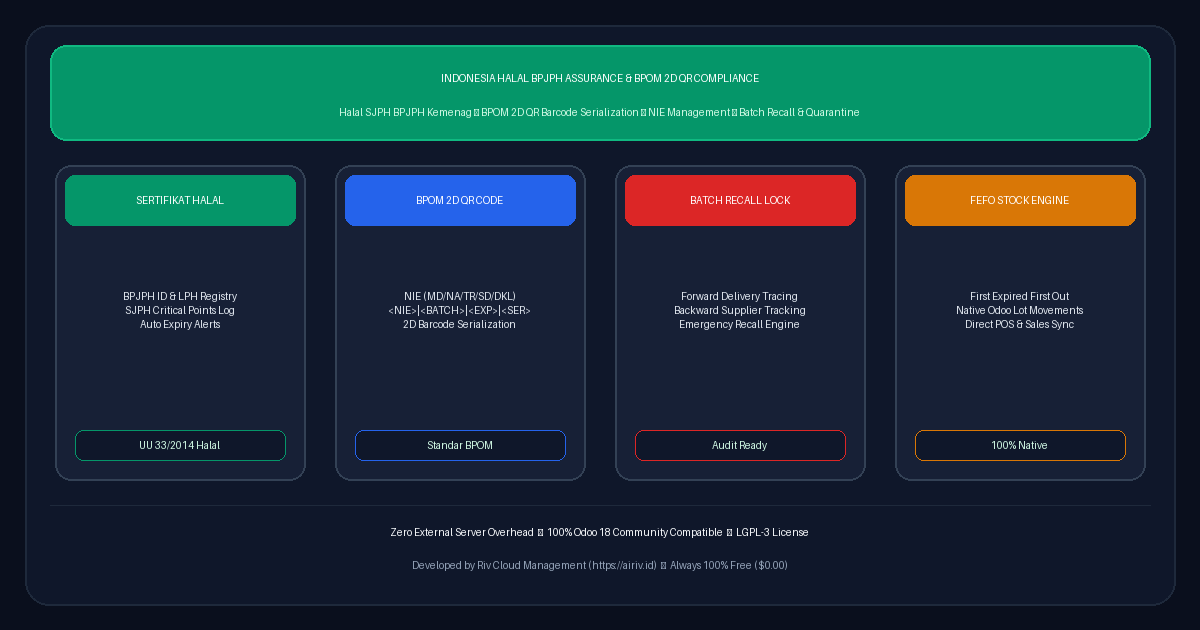
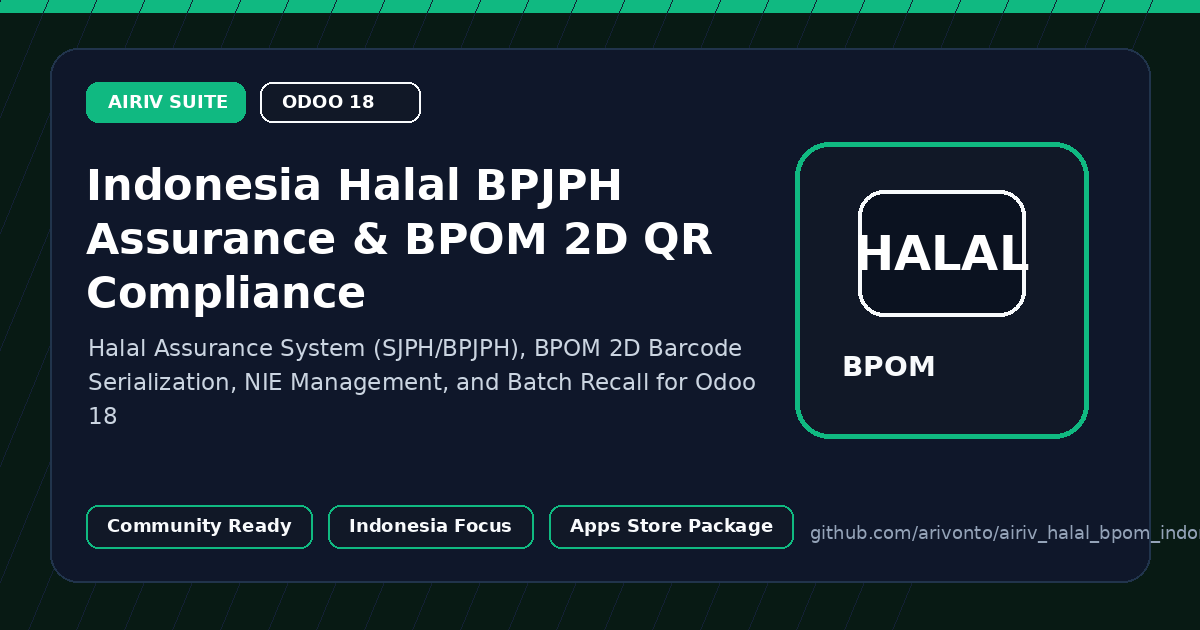
Refresh Odoo Apps Store assets and metadata

diff --git a/airiv_halal_bpom_indonesia/static/description/index.html b/airiv_halal_bpom_indonesia/static/description/index.html
@@ -1,172 +1,38 @@
 <!DOCTYPE html>
-<html lang="id">
+<html lang="en">
 <head>
-    <meta charset="utf-8"/>
-    <meta name="viewport" content="width=device-width, initial-scale=1.0"/>
-    <title>Indonesia Halal BPJPH (SJPH) & BPOM 2D QR Barcode Serialization</title>
+  <meta charset="utf-8">
+  <meta name="viewport" content="width=device-width, initial-scale=1">
+  <title>Indonesia Halal BPJPH Assurance & BPOM 2D QR Compliance</title>
+  <style>
+    body { margin:0; font-family: Arial, sans-serif; color:#14212f; background:#fff; }
+    .hero { padding:44px; border-radius:18px; background:#08111f; color:#fff; }
+    .badge { display:inline-block; padding:8px 12px; border-radius:999px; background:#0f766e; font-weight:700; font-size:13px; }
+    h1 { font-size:38px; line-height:1.15; margin:20px 0 12px; }
+    .lead { font-size:18px; color:#cbd5e1; max-width:900px; }
+    .grid { display:grid; grid-template-columns:repeat(3,1fr); gap:18px; margin:24px 0; }
+    .card { border:1px solid #e5e7eb; border-radius:14px; padding:22px; background:#fff; }
+    .card h3 { margin-top:0; color:#0f766e; }
+    .section { padding:28px 0; }
+    @media (max-width: 800px) { .grid { grid-template-columns:1fr; } h1 { font-size:30px; } .hero { padding:28px; } }
+  </style>
 </head>
-<body style="font-family: -apple-system, BlinkMacSystemFont, 'Segoe UI', Roboto, Helvetica, Arial, sans-serif; color: #0f172a; background-color: #ffffff; margin: 0; padding: 16px; box-sizing: border-box;">
-
-<!-- 1. Hero Card (Clean High-Contrast Light Theme) -->
-<div style="background-color: #f8fafc; border: 1px solid #cbd5e1; border-top: 6px solid #059669; border-radius: 12px; padding: 32px 24px; margin-bottom: 32px; text-align: center; box-shadow: 0 4px 6px -1px rgba(0,0,0,0.05);">
-    <div style="display: inline-block; background-color: #059669; color: #ffffff; font-size: 12px; font-weight: 800; padding: 6px 14px; border-radius: 20px; margin-bottom: 14px; text-transform: uppercase; letter-spacing: 0.5px;">
-        🇮🇩 BPJPH HALAL & BPOM RI COMPLIANT
+<body>
+  <div class="hero">
+    <span class="badge">AIRIV Suite for Odoo 18</span>
+    <h1>Indonesia Halal BPJPH Assurance & BPOM 2D QR Compliance</h1>
+    <p class="lead">Halal Assurance System (SJPH/BPJPH), BPOM 2D Barcode Serialization, NIE Management, and Batch Recall for Odoo 18</p>
+  </div>
+  <div class="section">
+    <div class="grid">
+      <div class="card"><h3>Business Ready</h3><p>Packaged as a focused Odoo application for Indonesian operating workflows.</p></div>
+      <div class="card"><h3>Community First</h3><p>Designed for Odoo 18 with clear dependencies, clean manifest metadata, and Apps Store assets.</p></div>
+      <div class="card"><h3>AIRIV UX</h3><p>Part of the AIRIV vertical ERP suite with consistent identity, iconography, and product positioning.</p></div>
     </div>
-    <h1 style="font-weight: 800; font-size: 28px; color: #0f172a; margin-top: 0; margin-bottom: 12px; line-height: 1.3;">
-        Indonesia Halal BPJPH (SJPH) & BPOM 2D QR Barcode Serialization
-    </h1>
-    <p style="font-size: 15.5px; color: #334155; max-width: 850px; margin: 0 auto 20px auto; line-height: 1.65;">
-        Regulatory Traceability Suite for Indonesian F&B, Cosmetics, and Pharma. Enforces BPJPH Halal Assurance Systems (SJPH), critical ingredient segregation, BPOM 2D Barcode Serialization, and FEFO lot expiry tracking.
-    </p>
-    <div style="display: flex; justify-content: center; gap: 8px; flex-wrap: wrap;">
-        <span style="display: inline-block; background-color: #e2e8f0; color: #0f172a; border: 1px solid #cbd5e1; font-size: 12px; font-weight: 600; padding: 5px 12px; border-radius: 6px;">Odoo 18.0 Community</span>
-        <span style="display: inline-block; background-color: #e2e8f0; color: #0f172a; border: 1px solid #cbd5e1; font-size: 12px; font-weight: 600; padding: 5px 12px; border-radius: 6px;">LGPL-3 License</span>
-        <span style="display: inline-block; background-color: #059669; color: #ffffff; font-size: 12px; font-weight: 700; padding: 5px 12px; border-radius: 6px;">100% Free ($0.00)</span>
-        <span style="display: inline-block; background-color: #e2e8f0; color: #0f172a; border: 1px solid #cbd5e1; font-size: 12px; font-weight: 600; padding: 5px 12px; border-radius: 6px;">Zero External Overhead</span>
-    </div>
-</div>
-
-<!-- 2. Showcase Banner Image -->
-<div style="text-align: center; margin-bottom: 36px;">
-    <img src="banner.png" alt="Indonesia Halal BPJPH (SJPH) & BPOM 2D QR Barcode Serialization" style="border-radius: 12px; border: 1px solid #cbd5e1; max-width: 100%; height: auto; box-shadow: 0 4px 6px -1px rgba(0,0,0,0.08);"/>
-</div>
-
-<!-- 3. Core Pillars -->
-<div style="margin-bottom: 36px;">
-    <div style="text-align: center; margin-bottom: 24px;">
-        <h2 style="font-weight: 800; color: #0f172a; font-size: 22px; margin-top: 0; margin-bottom: 6px;">
-            Core Capabilities & Architecture
-        </h2>
-        <p style="color: #475569; font-size: 14.5px; margin: 0;">
-            Engineered specifically for Indonesian statutory compliance and operational efficiency
-        </p>
-    </div>
-
-    <div style="display: flex; flex-wrap: wrap; gap: 16px;">
-        
-        <div style="flex: 1 1 calc(25% - 16px); min-width: 240px; box-sizing: border-box; margin-bottom: 16px;">
-            <div style="background-color: #ffffff; border: 1px solid #cbd5e1; border-top: 5px solid #059669; border-radius: 10px; padding: 20px; height: 100%; box-shadow: 0 2px 4px rgba(0,0,0,0.04); box-sizing: border-box;">
-                <h4 style="font-weight: 800; color: #0f172a; margin-top: 0; margin-bottom: 10px; font-size: 16px;">BPJPH Halal SJPH</h4>
-                <p style="font-size: 13.5px; color: #334155; line-height: 1.6; margin-bottom: 14px;">Tracks Halal certificate numbers (ID...), audit dates, and critical raw material matrices.</p>
-                <div style="display: inline-block; background-color: #059669; color: #ffffff; font-size: 11px; font-weight: 700; padding: 4px 10px; border-radius: 6px; text-transform: uppercase; letter-spacing: 0.5px;">
-                    Sertifikasi Halal
-                </div>
-            </div>
-        </div>
-        
-        <div style="flex: 1 1 calc(25% - 16px); min-width: 240px; box-sizing: border-box; margin-bottom: 16px;">
-            <div style="background-color: #ffffff; border: 1px solid #cbd5e1; border-top: 5px solid #0284c7; border-radius: 10px; padding: 20px; height: 100%; box-shadow: 0 2px 4px rgba(0,0,0,0.04); box-sizing: border-box;">
-                <h4 style="font-weight: 800; color: #0f172a; margin-top: 0; margin-bottom: 10px; font-size: 16px;">BPOM 2D QR Serialization</h4>
-                <p style="font-size: 13.5px; color: #334155; line-height: 1.6; margin-bottom: 14px;">Generates compliant 2D Datamatrix and GS1 QR barcodes for NIE registration tracking.</p>
-                <div style="display: inline-block; background-color: #0284c7; color: #ffffff; font-size: 11px; font-weight: 700; padding: 4px 10px; border-radius: 6px; text-transform: uppercase; letter-spacing: 0.5px;">
-                    BPOM Barcode
-                </div>
-            </div>
-        </div>
-        
-        <div style="flex: 1 1 calc(25% - 16px); min-width: 240px; box-sizing: border-box; margin-bottom: 16px;">
-            <div style="background-color: #ffffff; border: 1px solid #cbd5e1; border-top: 5px solid #7c3aed; border-radius: 10px; padding: 20px; height: 100%; box-shadow: 0 2px 4px rgba(0,0,0,0.04); box-sizing: border-box;">
-                <h4 style="font-weight: 800; color: #0f172a; margin-top: 0; margin-bottom: 10px; font-size: 16px;">Strict Halal Segregation</h4>
-                <p style="font-size: 13.5px; color: #334155; line-height: 1.6; margin-bottom: 14px;">Prevents contamination by locking non-halal raw materials from certified production lines.</p>
-                <div style="display: inline-block; background-color: #7c3aed; color: #ffffff; font-size: 11px; font-weight: 700; padding: 4px 10px; border-radius: 6px; text-transform: uppercase; letter-spacing: 0.5px;">
-                    Isolasi Bahan
-                </div>
-            </div>
-        </div>
-        
-        <div style="flex: 1 1 calc(25% - 16px); min-width: 240px; box-sizing: border-box; margin-bottom: 16px;">
-            <div style="background-color: #ffffff; border: 1px solid #cbd5e1; border-top: 5px solid #d97706; border-radius: 10px; padding: 20px; height: 100%; box-shadow: 0 2px 4px rgba(0,0,0,0.04); box-sizing: border-box;">
-                <h4 style="font-weight: 800; color: #0f172a; margin-top: 0; margin-bottom: 10px; font-size: 16px;">FEFO Expiry Management</h4>
-                <p style="font-size: 13.5px; color: #334155; line-height: 1.6; margin-bottom: 14px;">First-Expired, First-Out picking strategy with automated 30/60/90 day expiry alarms.</p>
-                <div style="display: inline-block; background-color: #d97706; color: #ffffff; font-size: 11px; font-weight: 700; padding: 4px 10px; border-radius: 6px; text-transform: uppercase; letter-spacing: 0.5px;">
-                    FEFO Lot Expiry
-                </div>
-            </div>
-        </div>
-        
-    </div>
-</div>
-
-<!-- 4. Key Enterprise Features -->
-<div style="background-color: #f8fafc; border: 1px solid #cbd5e1; border-radius: 12px; padding: 28px 20px; margin-bottom: 36px;">
-    <h3 style="font-weight: 800; color: #0f172a; font-size: 18px; margin-top: 0; margin-bottom: 18px; border-bottom: 2px solid #e2e8f0; padding-bottom: 10px;">
-        Key Enterprise Features & Workflow Automation
-    </h3>
-    <div style="display: flex; flex-wrap: wrap; gap: 16px;">
-        
-        <div style="flex: 1 1 calc(50% - 16px); min-width: 280px; box-sizing: border-box; margin-bottom: 16px;">
-            <div style="background-color: #ffffff; border: 1px solid #e2e8f0; border-left: 4px solid #059669; border-radius: 8px; padding: 16px; height: 100%; box-sizing: border-box;">
-                <h5 style="font-weight: 700; color: #0f172a; margin-top: 0; margin-bottom: 8px; font-size: 15px;">1. UU JPH No. 33/2014 Compliance</h5>
-                <p style="color: #334155; font-size: 13.5px; line-height: 1.6; margin: 0;">Supports mandatory Halal certification criteria for Indonesian manufacturers and distributors.</p>
-            </div>
-        </div>
-        
-        <div style="flex: 1 1 calc(50% - 16px); min-width: 280px; box-sizing: border-box; margin-bottom: 16px;">
-            <div style="background-color: #ffffff; border: 1px solid #e2e8f0; border-left: 4px solid #059669; border-radius: 8px; padding: 16px; height: 100%; box-sizing: border-box;">
-                <h5 style="font-weight: 700; color: #0f172a; margin-top: 0; margin-bottom: 8px; font-size: 15px;">2. BPOM 2D Barcode Generator</h5>
-                <p style="color: #334155; font-size: 13.5px; line-height: 1.6; margin: 0;">Renders official 2D verification barcodes containing NIE, Batch Number, and Expiration Dates.</p>
-            </div>
-        </div>
-        
-        <div style="flex: 1 1 calc(50% - 16px); min-width: 280px; box-sizing: border-box; margin-bottom: 16px;">
-            <div style="background-color: #ffffff; border: 1px solid #e2e8f0; border-left: 4px solid #059669; border-radius: 8px; padding: 16px; height: 100%; box-sizing: border-box;">
-                <h5 style="font-weight: 700; color: #0f172a; margin-top: 0; margin-bottom: 8px; font-size: 15px;">3. Halal Critical Material Audit</h5>
-                <p style="color: #334155; font-size: 13.5px; line-height: 1.6; margin: 0;">Generates ready-to-submit SJPH audit matrices for LPPOM MUI / BPJPH inspectors.</p>
-            </div>
-        </div>
-        
-        <div style="flex: 1 1 calc(50% - 16px); min-width: 280px; box-sizing: border-box; margin-bottom: 16px;">
-            <div style="background-color: #ffffff; border: 1px solid #e2e8f0; border-left: 4px solid #059669; border-radius: 8px; padding: 16px; height: 100%; box-sizing: border-box;">
-                <h5 style="font-weight: 700; color: #0f172a; margin-top: 0; margin-bottom: 8px; font-size: 15px;">4. Quarantine & Lot Recall</h5>
-                <p style="color: #334155; font-size: 13.5px; line-height: 1.6; margin: 0;">1-click trace and quarantine for affected manufacturing batches across all warehouses.</p>
-            </div>
-        </div>
-        
-    </div>
-</div>
-
-<!-- 5. Technical Specifications Table -->
-<div style="margin-bottom: 36px;">
-    <h3 style="font-weight: 800; color: #0f172a; font-size: 18px; margin-top: 0; margin-bottom: 14px;">
-        Module Technical Specifications
-    </h3>
-    <div style="overflow-x: auto;">
-        <table style="width: 100%; border-collapse: collapse; font-size: 13.5px; border: 1px solid #cbd5e1; background-color: #ffffff;">
-            <tbody>
-                <tr style="border-bottom: 1px solid #cbd5e1;">
-                    <td style="font-weight: 700; width: 30%; background-color: #f1f5f9; color: #0f172a; padding: 12px 16px; border-right: 1px solid #cbd5e1;">Framework Compatibility</td>
-                    <td style="color: #0f172a; padding: 12px 16px;">Odoo 18.0 Community Edition (OWL 2.0 & App Drawer Native)</td>
-                </tr>
-                <tr style="border-bottom: 1px solid #cbd5e1;">
-                    <td style="font-weight: 700; background-color: #f1f5f9; color: #0f172a; padding: 12px 16px; border-right: 1px solid #cbd5e1;">License & Price</td>
-                    <td style="color: #0f172a; padding: 12px 16px;">GNU LGPL-3 &bull; <strong style="color: #059669;">Free ($0.00)</strong></td>
-                </tr>
-                <tr style="border-bottom: 1px solid #cbd5e1;">
-                    <td style="font-weight: 700; background-color: #f1f5f9; color: #0f172a; padding: 12px 16px; border-right: 1px solid #cbd5e1;">Dependencies</td>
-                    <td style="color: #0f172a; padding: 12px 16px;"><code style="background-color: #f1f5f9; color: #0f172a; padding: 2px 6px; border-radius: 4px; font-weight: 600;">base, stock, product</code></td>
-                </tr>
-                <tr style="border-bottom: 1px solid #cbd5e1;">
-                    <td style="font-weight: 700; background-color: #f1f5f9; color: #0f172a; padding: 12px 16px; border-right: 1px solid #cbd5e1;">Regulatory Standards</td>
-                    <td style="color: #0f172a; padding: 12px 16px;">UU No. 33/2014 (Jaminan Produk Halal), BPJPH HAS 23000, Peraturan BPOM No. 22/2022</td>
-                </tr>
-                <tr>
-                    <td style="font-weight: 700; background-color: #f1f5f9; color: #0f172a; padding: 12px 16px; border-right: 1px solid #cbd5e1;">Developer</td>
-                    <td style="color: #0f172a; padding: 12px 16px;">Riv Cloud Management (<a href="https://airiv.id" target="_blank" style="color: #0284c7; text-decoration: underline; font-weight: 600;">https://airiv.id</a>)</td>
-                </tr>
-            </tbody>
-        </table>
-    </div>
-</div>
-
-<!-- 6. Footer -->
-<div style="text-align: center; padding: 20px 0; border-top: 1px solid #cbd5e1; color: #475569; font-size: 13.5px;">
-    <p style="margin-bottom: 8px; color: #334155;">
-        Developed for Indonesian Businesses & Enterprises &bull; <strong>Riv Cloud Management</strong>
-    </p>
-    <a href="https://airiv.id" target="_blank" style="display: inline-block; background-color: #0f172a; color: #ffffff; font-weight: 700; padding: 7px 18px; border-radius: 6px; text-decoration: none; font-size: 12.5px;">
-        Visit airiv.id
-    </a>
-</div>
-
+  </div>
+  <div class="section">
+    <h2>Overview</h2>
+    <p>Comprehensive Halal Assurance and BPOM 2D Serialization Suite for Odoo 18 Community Edition. Designed for Indonesian Food & Beverage (F&B), Cosmetics, Herbal/Traditional Medicine, and Pharmaceutical businesses. Compliant with UU No. 33/2014, PP No. 39/2021 (BPJPH Halal), and BPOM 2D Barcode Serialization Regulations. Core Capabilities: 1. Halal Assurance System (SJPH / BPJPH): - BPJPH Halal Certificate Management (Nomor SH, Tanggal Berlaku, Lembaga Pemeriksa Halal / LPH) - Halal Critical Ingredient Registry & Supplier Halal Validity Tracking - Halal Status tagging across Products and Finished Goods (Halal Certified, Material Check Required) 2. BPOM 2D Barcode Serialization: - BPOM NIE (Nomor Izin Edar) validation across categories (MD/ML Pangan, NA Kosmetik, TR Herbal, SD Suplemen, DKL Farmasi) - Dynamic 2D QR Code serialization string generator (<NIE>|<BATCH>|<EXP_DATE>|<SERIAL_NUMBER>)</p>
+  </div>
 </body>
 </html>

diff --git a/airiv_halal_bpom_indonesia/__manifest__.py b/airiv_halal_bpom_indonesia/__manifest__.py
@@ -27,6 +27,7 @@ Core Capabilities:
 """,
     'author': 'Riv Cloud Management',
     'website': 'https://airiv.id',
+    'url': 'https://github.com/arivonto/airiv_halal_bpom_indonesia/blob/18.0/static/description/index.html',
     'license': 'LGPL-3',
     'price': 0.0,
     'currency': 'EUR',
@@ -35,7 +36,8 @@ Core Capabilities:
         'product',
         'stock',
         'product_expiry',
-        'account'
+        'account',
+        'airiv_os_core',
     ],
     'data': [
         'security/ir.model.access.csv',

diff --git a/README.md b/README.md
@@ -1,67 +1,27 @@
 # Indonesia Halal BPJPH Assurance & BPOM 2D QR Compliance
 
-[![License: LGPL-3](https://img.shields.io/badge/License-LGPL--3-blue.svg)](https://www.gnu.org/licenses/lgpl-3.0)
-[![Odoo: 18.0 Community](https://img.shields.io/badge/Odoo-18.0%20Community-purple.svg)](https://www.odoo.com)
-[![Price: Free ($0.00)](https://img.shields.io/badge/Price-%240.00%20(Free)-green.svg)](https://airiv.id)
-[![Regulatory: BPJPH & BPOM RI](https://img.shields.io/badge/Regulatory-BPJPH%20%26%20BPOM%20RI-emerald.svg)](https://airiv.id)
+Halal Assurance System (SJPH/BPJPH), BPOM 2D Barcode Serialization, NIE Management, and Batch Recall for Odoo 18
 
-A specialized regulatory compliance and batch serialization suite built specifically for **Odoo 18.0 Community Edition**. Designed for Indonesian Food & Beverage (F&B), Cosmetics, Herbal/Traditional Medicine (*Jamu*), and Pharmaceutical businesses facing mandatory **BPJPH Halal (UU No. 33/2014 & PP No. 39/2021)** and **Badan POM RI 2D Barcode Serialization** audits.
+## Odoo Apps Store
 
----
+This repository contains the Odoo 18 module package for `airiv_halal_bpom_indonesia`.
 
-## Detailed Capabilities
+Required store assets are maintained in:
 
-### 1. Halal Assurance System (SJPH / BPJPH Kemenag)
-* **BPJPH Halal Certificate Management**: Tracks official Halal ID numbers (`ID31110000123450123`), validity dates, and accredited auditing agencies (*LPH LPPOM MUI, Sucofindo, Surveyor Indonesia*).
-* **Critical Control Points (Titik Kritis Halal)**: Categorizes materials into Low (Positive List), Medium, and High (Animal derivative/fermentation) critical risk levels.
-* **Master Product Linkage**: Real-time validation badges showing active Halal certification status across product variants.
+```text
+airiv_halal_bpom_indonesia/static/description/
+  icon.png
+  banner.png
+  index.html
+```
 
-### 2. BPOM 2D Barcode Serialization & NIE Management
-* **Multi-Category NIE Validation**: Supports BPOM RI MD (Domestic Food), ML (Imported Food), NA (Cosmetics & Skincare), TR (Herbal/Traditional), SD (Supplements), and DKL (Pharmaceuticals).
-* **Standard 2D QR Payload Generator**: Automatically compiles regulatory 2D serialization strings:
-  `BPOM|<NIE>|<BATCH_NUMBER>|<EXPIRY_DATE_YYYYMMDD>|<SERIAL_TOKEN>`
-* **Lot Expiry & FEFO Integration**: Direct link to native Odoo stock tracking and First Expired, First Out dispatching.
+## Technical
 
-### 3. Quality Assurance, Quarantine & Emergency Batch Recall
-* **3-Stage Traceability Status**: `Released` (Lolos QC), `Quarantine` (Uji Lab), and `Recalled` (Ditarik dari Pasar).
-* **Automated Audit Trail**: Captures recall reasons, lab contamination notes, and blocks outbound deliveries for flagged batches.
+- Odoo version: `18.0.1.0.0`
+- License: `LGPL-3`
+- Author: `Riv Cloud Management`
+- Website: `https://airiv.id`
 
----
+## Quality Gate
 
-## Validated Commercial Benchmark (End-to-End Audit)
-
-The compliance workflow was verified under live Odoo 18.0 Community conditions:
-
-1. **Halal Certificate Registration**: Registered Halal Certificate `ID31110000123450123` issued by BPJPH / LPH LPPOM MUI (valid through 2030).
-2. **Product NIE Association**: Linked product `Kopi Susu Gula Aren 250ml` with BPOM NIE `MD 268831001001` and active Halal status.
-3. **BPOM 2D Barcode Serialization**: Generated standard 2D QR payload `BPOM|MD 268831001001|LOT-202608-001|20261231|2AD6E3D9` with unique serial batch token.
-4. **Emergency Recall Quarantine**: Successfully transitioned batch status from `Released` to `Quarantine` and locked to `Recalled` with lab investigation logging.
-
----
-
-## Installation & Odoo Configuration Guide
-
-1. **Deploy Module**:
-   Place `airiv_halal_bpom_indonesia` inside your Odoo `custom_addons` directory.
-
-2. **Activate Module**:
-   * Navigate to **Apps > Update Apps List**.
-   * Search for `Indonesia Halal BPJPH Assurance & BPOM 2D QR Compliance` and click **Activate**.
-
-3. **Configure Halal Certificates & NIE**:
-   * Open **Halal & BPOM > Sertifikat Halal BPJPH** to register company Halal IDs.
-   * Enter BPOM NIE numbers on the product template under the **Halal & BPOM RI** tab.
-   * Generate 2D QR serialization codes directly from **Serialisasi Lot & 2D QR**.
-
----
-
-## Module Specifications
-
-| Specification | Details |
-| :--- | :--- |
-| **Framework Version** | Odoo 18.0 Community Edition (OWL & App Drawer compliant) |
-| **License** | GNU Lesser General Public License v3.0 (LGPL-3) |
-| **Price** | Free ($0.00) |
-| **Dependencies** | `base`, `product`, `stock`, `product_expiry`, `account` |
-| **Regulatory Standards** | UU No. 33/2014, PP No. 39/2021, Peraturan BPOM No. 22/2022 |
-| **Server Overhead** | Zero (Native ORM, direct SQL aggregation) |
+GitHub Actions runs the AIRIV Odoo Apps Store CI audit on branch `18.0`.
